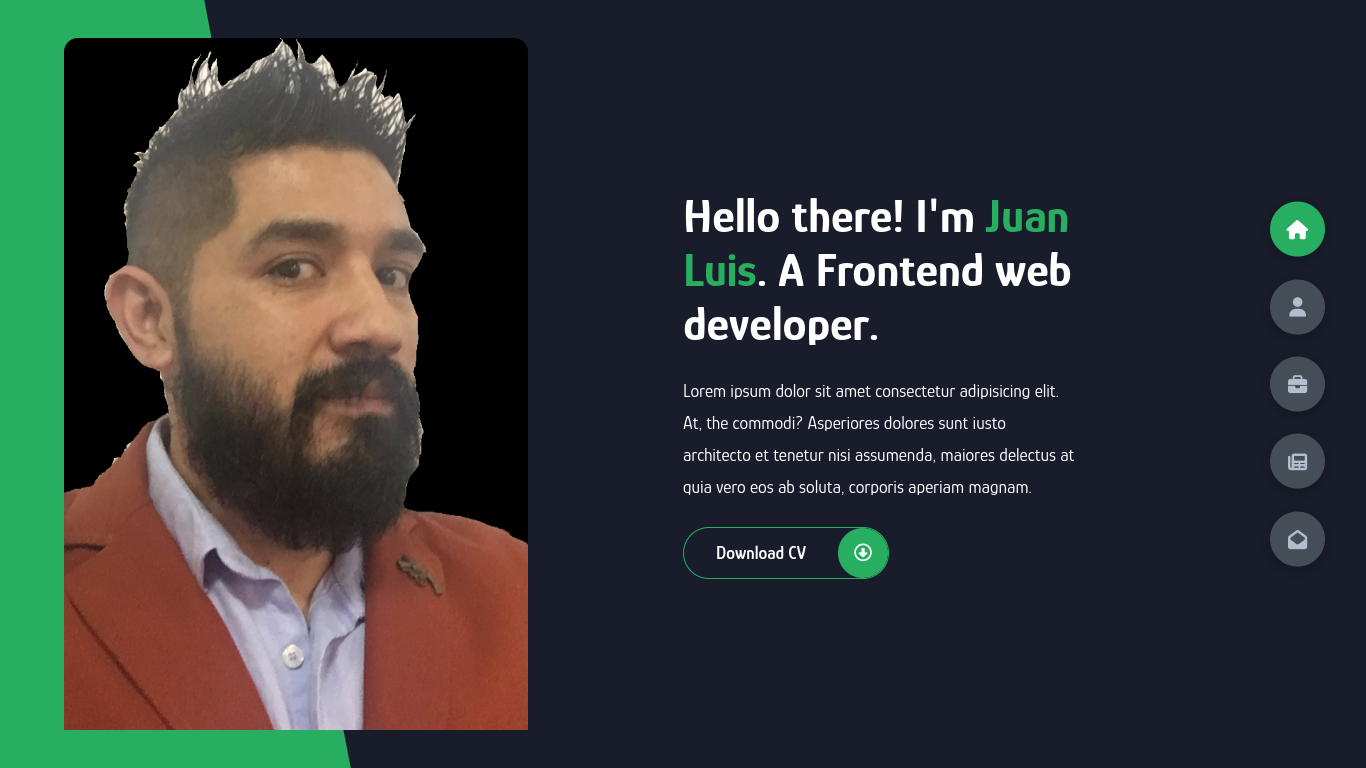
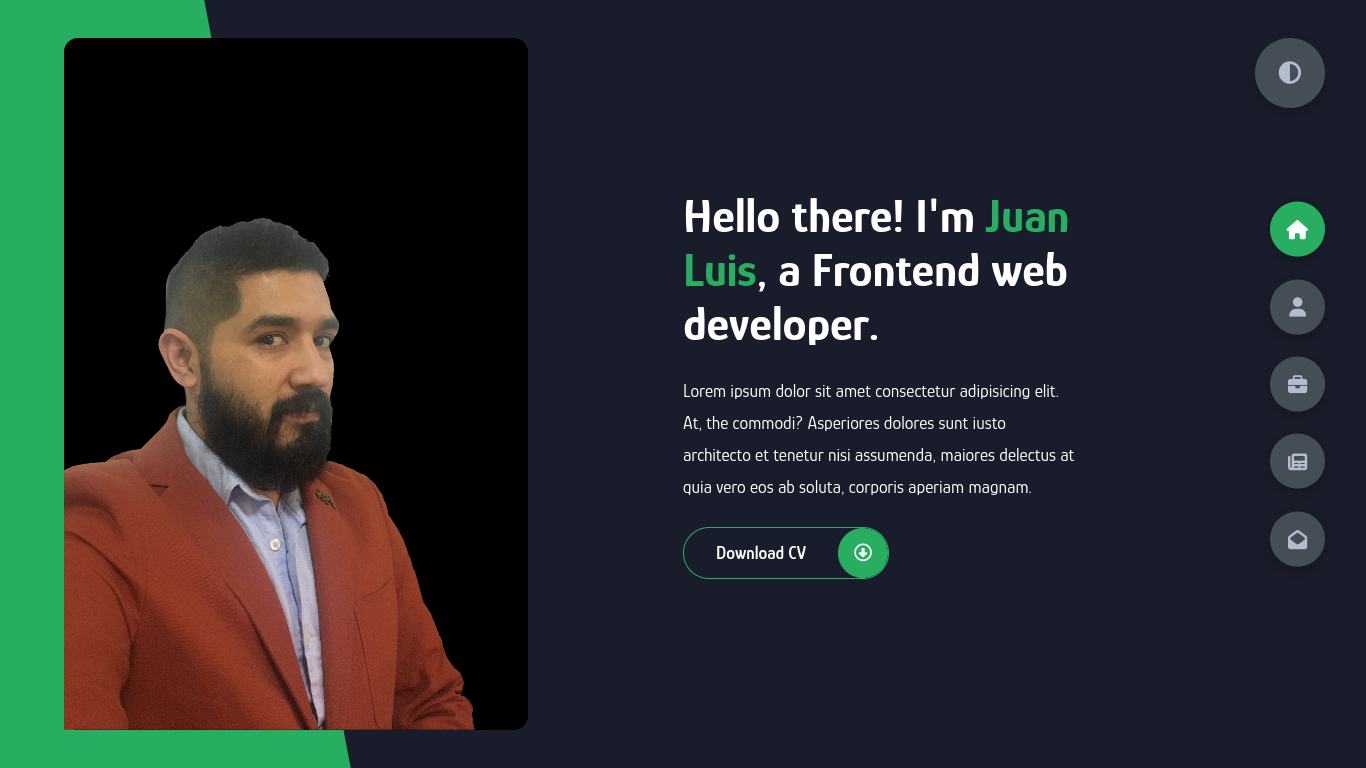
changed hero picture

diff --git a/index.html b/index.html
@@ -23,12 +23,12 @@
         <div class="left-header">
           <div class="h-shape"></div>
           <div class="image">
-            <img src="./images/mypicture.png" alt="Juan Luis picture" />
+            <img src="./images/myPicture.png" alt="Juan Luis picture" />
           </div>
         </div>
         <div class="right-header">
           <h1 class="name">
-            Hello there! I'm <span>Juan Luis</span>. A Frontend web developer.
+            Hello there! I'm <span>Juan Luis</span>, a Frontend web developer.
           </h1>
           <p>
             Lorem ipsum dolor sit amet consectetur adipisicing elit. At, the
@@ -494,4 +494,3 @@
     <script src="app.js"></script>
   </body>
 </html>
-<!--3:00:-->

diff --git a/styles/styles.css b/styles/styles.css
@@ -3,7 +3,6 @@
   padding: 0;
   box-sizing: border-box;
   list-style: none;
-  /*Check*/
 }
 
 :root {

diff --git a/styles/styles.scss b/styles/styles.scss
@@ -3,7 +3,6 @@
   padding: 0;
   box-sizing: border-box;
   list-style: none;
-  /*Check*/
 }
 
 :root {
